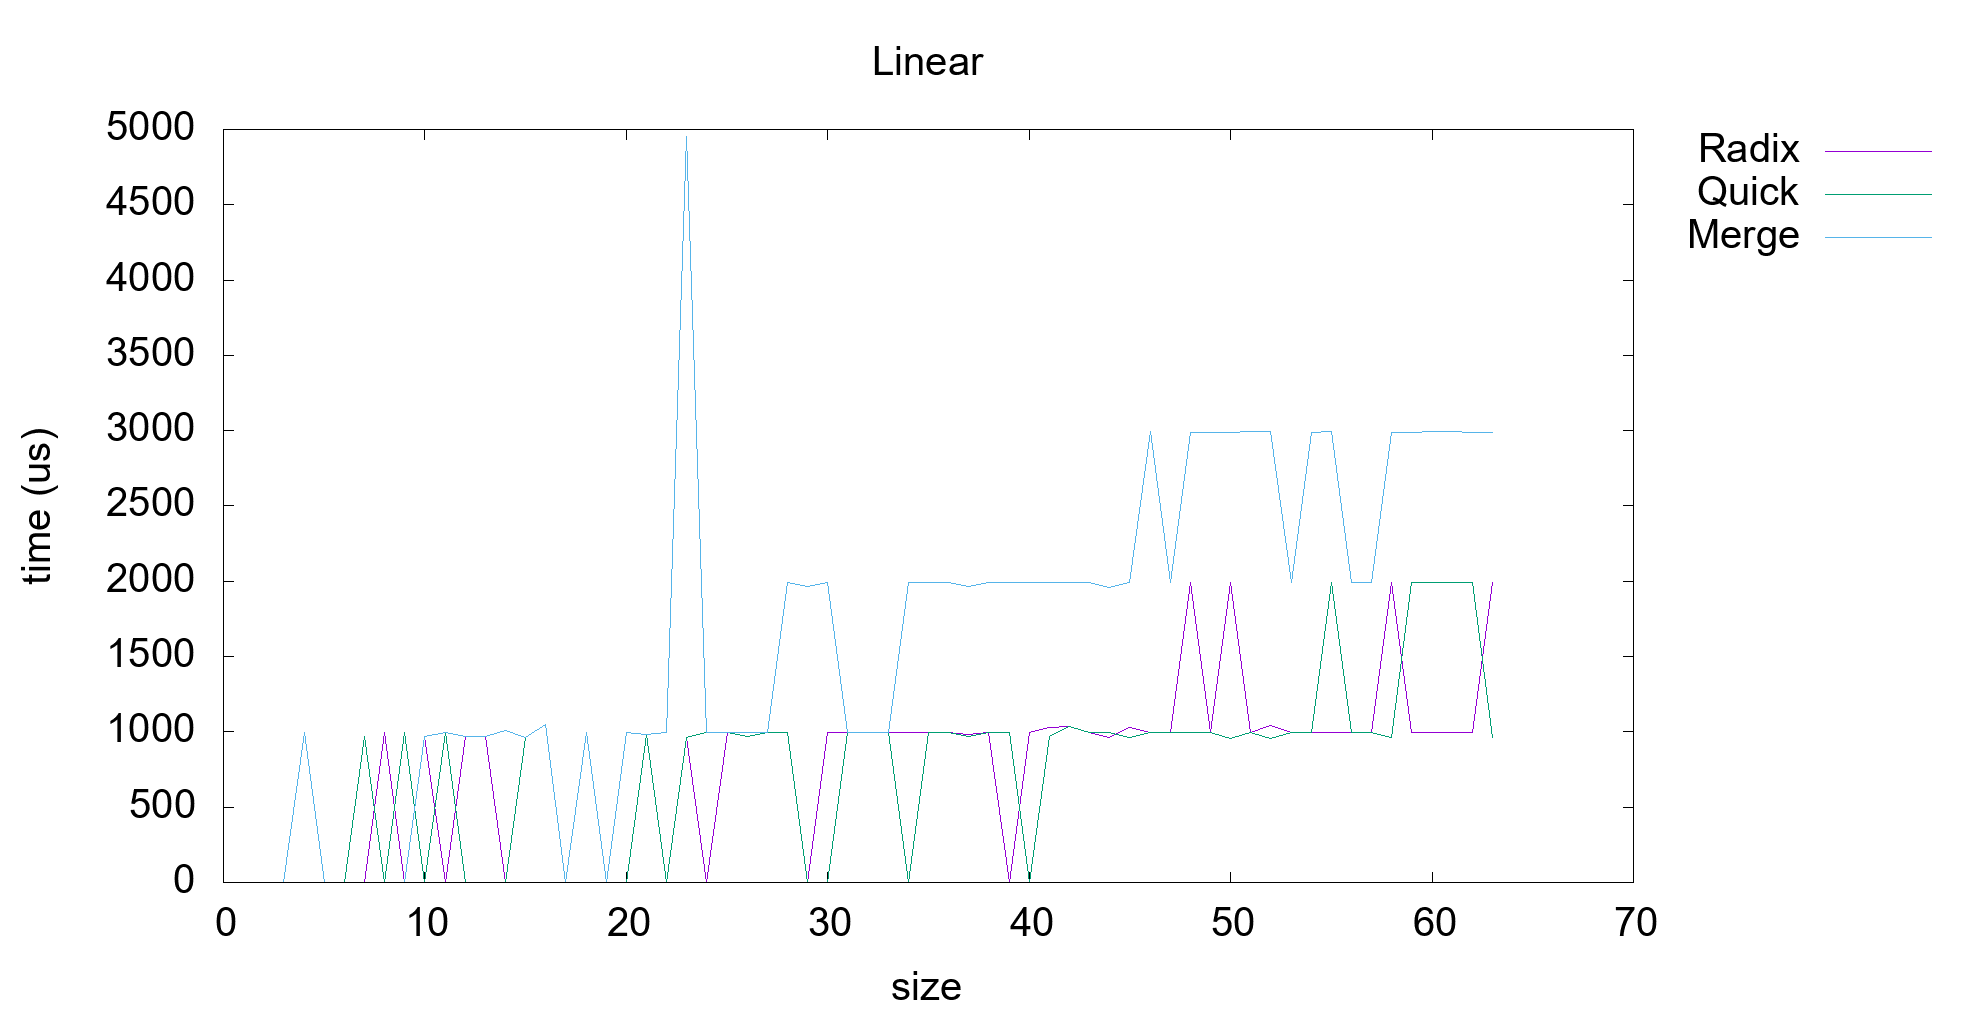
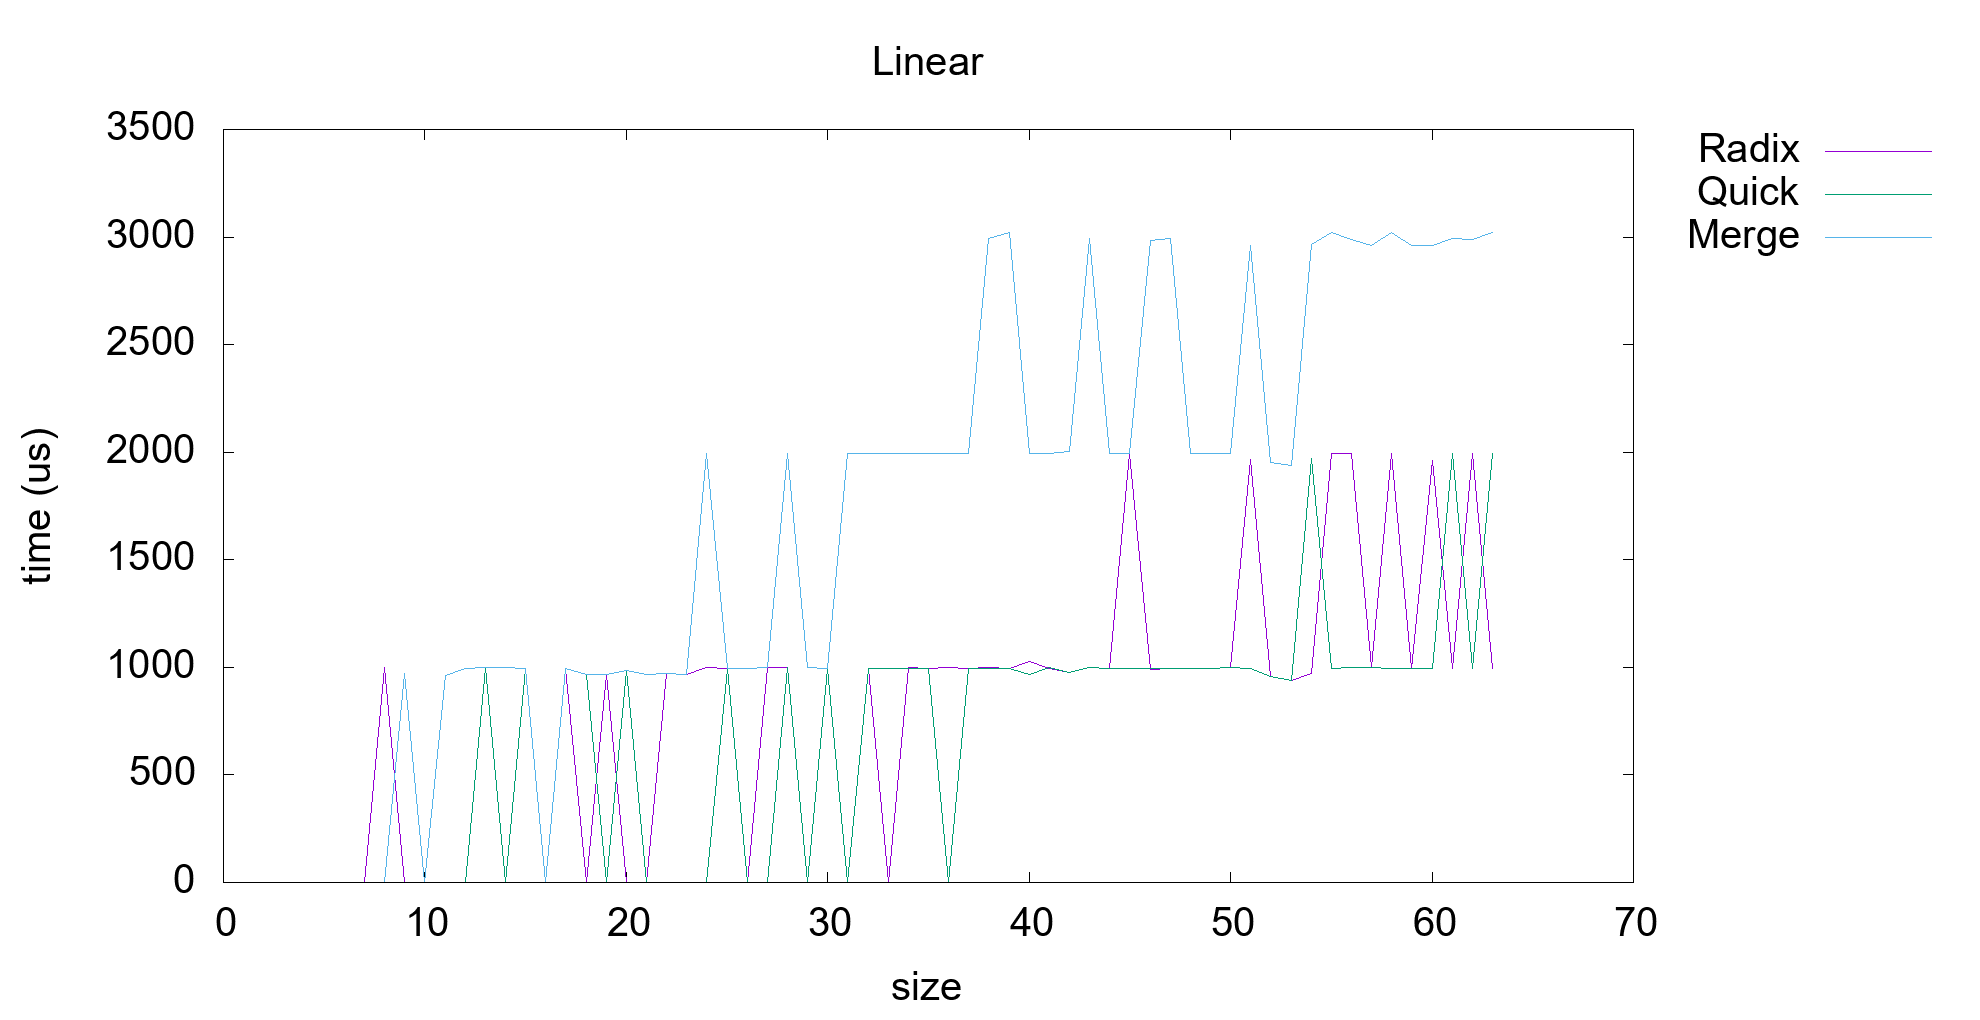
fixed wrong implementation of shell sort, it now performes better than insertion sort as it should

diff --git a/tim.c b/tim.c
@@ -1,5 +1,42 @@
 #include "sorting.h"
 
+const int X = 0;
+const int Y = 1;
+const int Z = 2;
+
+typedef struct run
+{
+	int *start;
+	int size;
+} RUN;
+
+void merge_runs(RUN **run_list, int *arr)
+{	
+	// do while the number of runs is more than 1
+	// probably keep track of the number of runs in the list
+
+	// merge runs Y with X or Z (whichever one is smaller)
+	if(run_list[Z]->size <= run_list[Y]->size + run_list[X]->size || run_list[Y]->size <= run_list[X]->size)
+	{
+		// merge Z and Y
+		if(run_list[X]->size > run_list[Z]->size)
+		{
+			// run merge between Z and Y arrays
+
+			// merge runs Z and Y
+		}
+		// merge X and Y
+		else
+		{
+			// run merge between X and Y arrays
+
+			// merge runs X and Y
+			*run_list[X] = *run_list[Y];			
+		}
+		
+	}
+}
+
 int get_minrun(int size)
 {
 	int result = 0;
@@ -37,7 +74,7 @@ void tim_sort(int *arr, int size)
 	int end = 0;
 	int minrun = get_minrun(size);
 
-	// construct runs in random array
+	// construct runs in array
 	while (end < size)
 	{
 		end = find_next_run(arr, size, start);

diff --git a/benchmark.c b/benchmark.c
@@ -8,7 +8,7 @@
 #define DATA_HEADERS "Size Merge Radix Insert Selection Bubble Quick Shell Binary"
 
 #define MAX_VALUE 16
-#define MAX_DATA_POINTS (1 << 6)
+#define MAX_DATA_POINTS (1 << 7)
 #define ITERATION_MULTIPLIER (1 << 8)
 
 void update_data_file(long **results, int iterations, int tests)
@@ -47,7 +47,6 @@ void init_gnuplot()
 
 int main(int argc, char const *argv[])
 {
-	/*
 	sort funcs[] = {&t_merge, &t_radix, &t_insert, &t_selection, &t_bubble, &t_quick, 
 					&t_shell, &t_bin_insert};
 
@@ -93,8 +92,16 @@ int main(int argc, char const *argv[])
 
 	free(simulation_times);
 	
+	/*
+	int size = 30;
+	int *arr = malloc(size * sizeof(*arr));
+	fill_random(arr, size, 10);
+	print_array(arr, size);
+	shell_sort(arr, size);
+	print_array(arr, size);
+	getchar();	
 	*/
-	
+	/*
 	int size = 70;
 	int *arr = malloc(size * sizeof(*arr));
 	fill_random(arr, size, 5);
@@ -102,6 +109,6 @@ int main(int argc, char const *argv[])
 	tim_sort(arr, size);
 	print_array(arr, size);
 	getchar();
-	
+	*/
 	return EXIT_SUCCESS;
 }

diff --git a/shell.c b/shell.c
@@ -2,11 +2,25 @@
 
 void shell_sort(int *arr, int size)
 {
-	for (int gap = size / 2; gap > 0; gap /= 2)
-		for (int element = 0; element < size - gap; ++element)
-			for (int sub_element = 0; sub_element < size - gap; sub_element += gap)
-				if (arr[sub_element + gap] > arr[sub_element])
-					swap(&arr[sub_element + gap], &arr[sub_element]);
+	for (int k = log2(size + 1); k > 0; --k)
+	{
+		int gap = (1 << k) - 1;
+		for (int element = 0; element < gap; ++element)
+		{
+			for (int i = element + gap; i < size; i += gap)
+			{
+				long key = arr[i];
+				int pos = i - gap;
+
+				while (pos >= element && (arr[pos] > key))
+				{
+					arr[pos + gap] = arr[pos];
+					pos -= gap;
+				}
+				arr[pos + gap] = key;
+			}
+		}
+	}
 }
 
 void t_shell(int *arr, int size)
